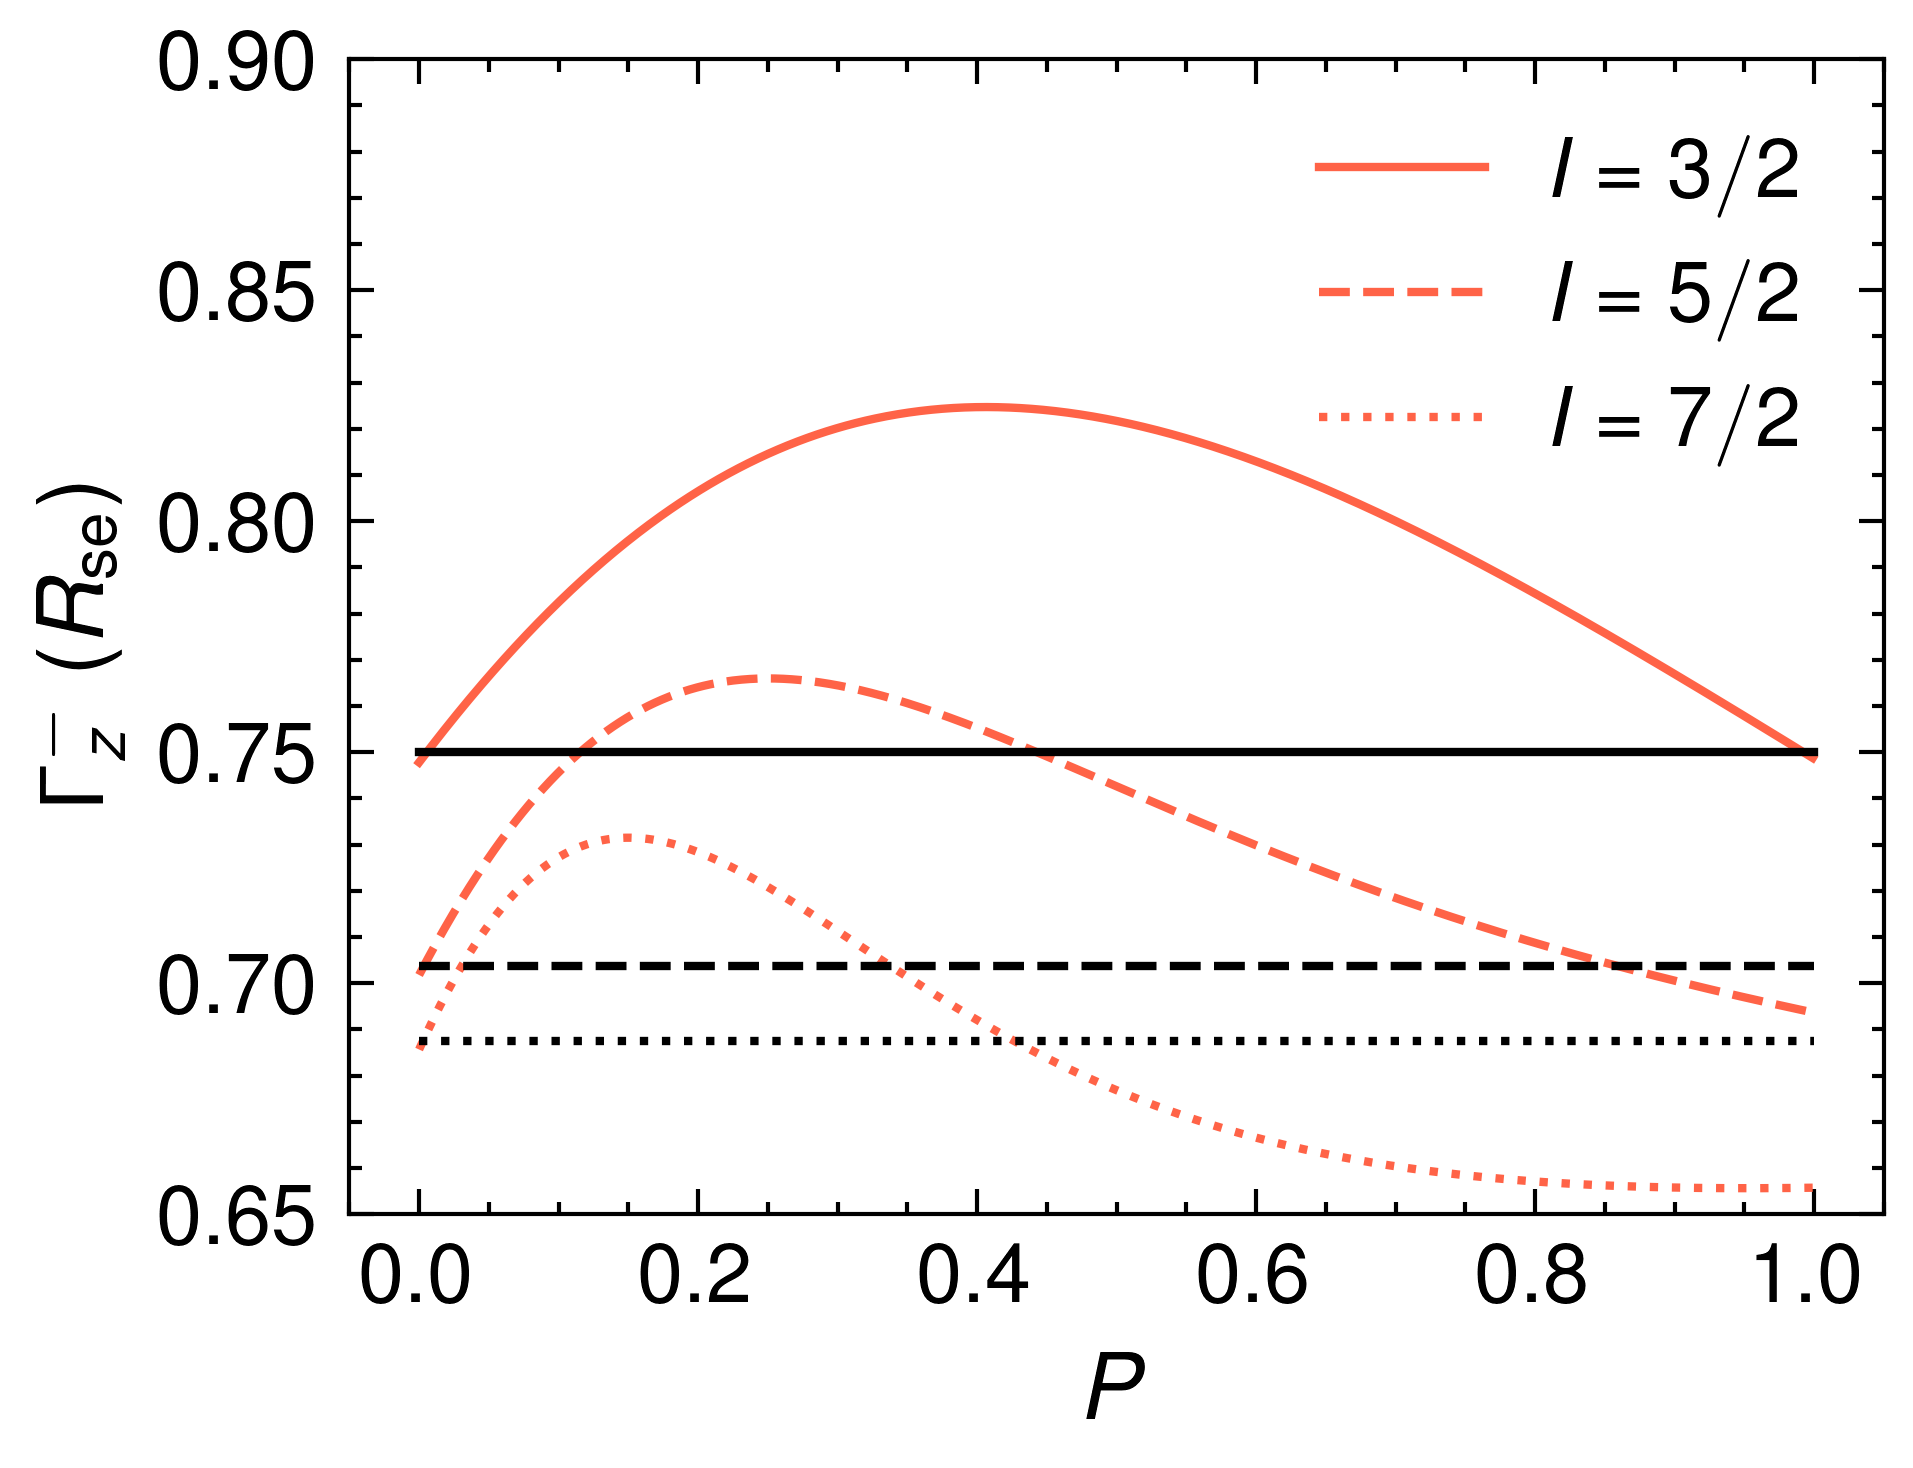
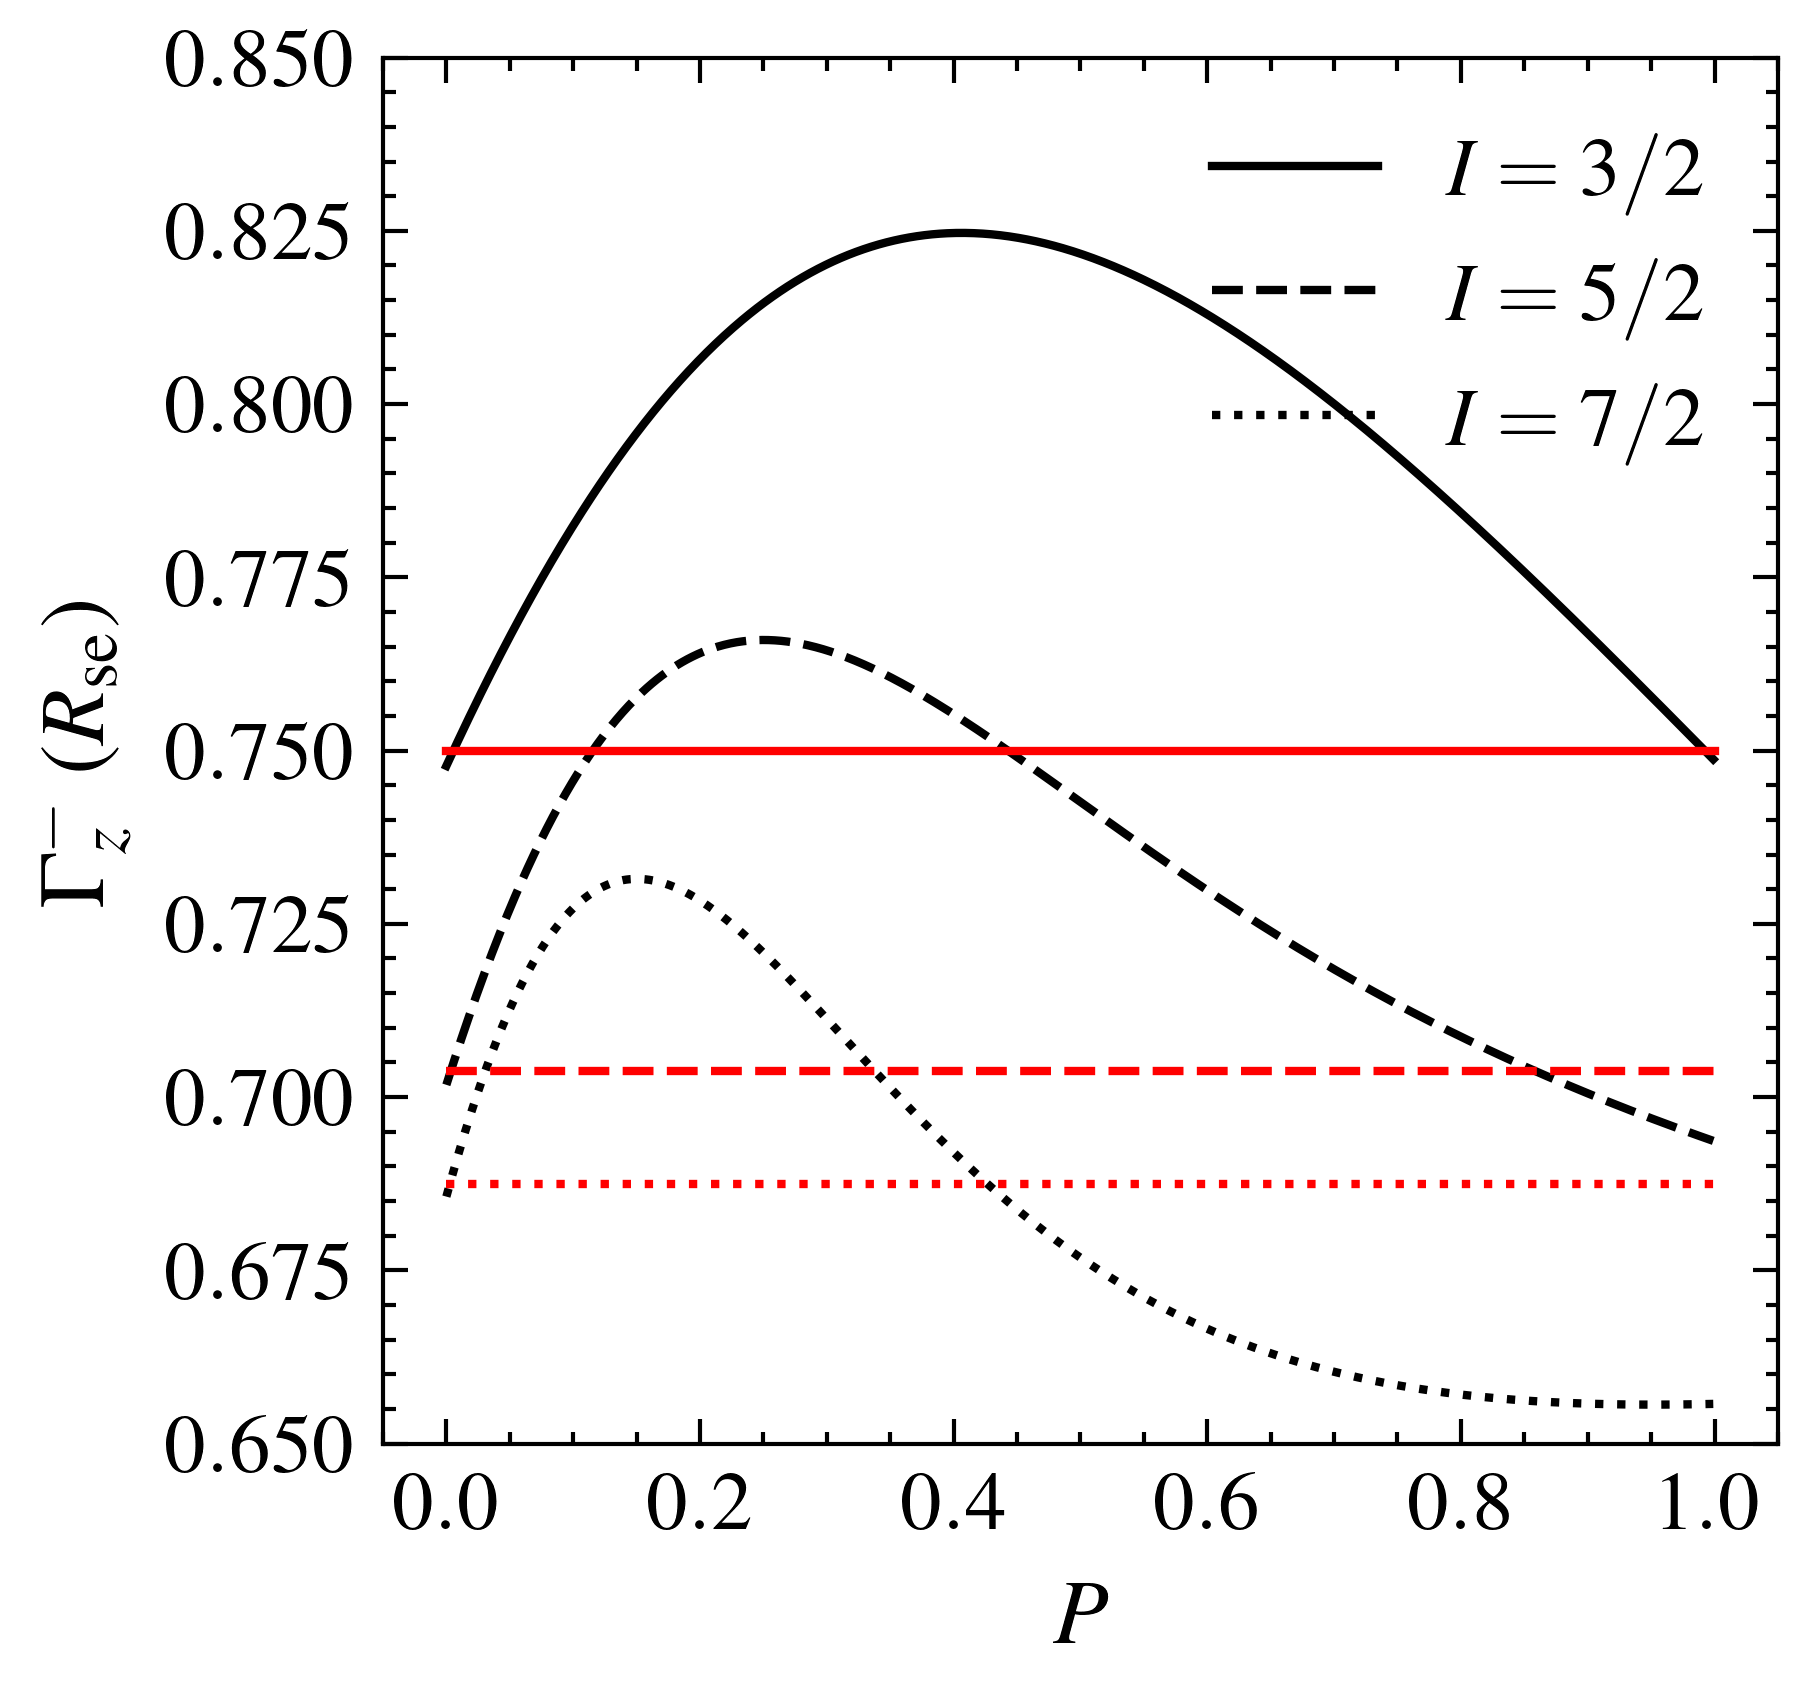
1

diff --git a/test7_copy.py b/test7_copy.py
@@ -12,7 +12,7 @@ from sympy.physics.quantum.spin import Rotation
 from sympy import pi
 from scipy.linalg import *
 import scienceplots
-def gammam(I, g1, g2): 
+def gammam(I,bound): 
 
     # --------------------------------Properties of the alkali metal atom-----------------------------------#
     # I = 5 / 2
@@ -31,13 +31,12 @@ def gammam(I, g1, g2):
 
     # --------------------------------Characterize interactions envolved-----------------------------------#
     Rse = 1
-    Rop = 0
-    Rsd = 0
-    sx=np.sqrt(1)/(2)
-    sz=np.sqrt(1)/(2)
+    H = (az+0.5*ax - bz-0.5*bx)  # 投影定理
+    q, v = np.linalg.eig(H)
+    evolving_B = v @ np.diag(np.exp(-1j * q *0.1)) @ np.linalg.inv(v)
     # --------------------------------Define the initial state-----------------------------------#
-    theta = 0
-    phi = 0
+    theta = np.pi/2
+    phi = np.pi/4
     a_theta = spin_Jx(a) * np.sin(theta) * np.cos(phi) + spin_Jy(a) * np.sin(theta) * np.sin(phi) + spin_Jz(a) * np.cos(
         theta)
     b_theta = spin_Jx(b) * np.sin(theta) * np.cos(phi) + spin_Jy(b) * np.sin(theta) * np.sin(phi) + spin_Jz(b) * np.cos(
@@ -46,8 +45,6 @@ def gammam(I, g1, g2):
     qb, vb = np.linalg.eig(b_theta)
     v = block_diag(va, vb)
     q = np.hstack((qa, qb))
-    Rho_ini = np.zeros(2 * (a + b + 1))
-
     # # -----------------spin temperature state-----------------#
 
 
@@ -59,9 +56,10 @@ def gammam(I, g1, g2):
 
     dt = 0.001
     hyperfine = block_diag(np.ones((2 * a + 1, 2 * a + 1)), np.ones((2 * b + 1, 2 * b + 1)))  # 一个原子
-    Fm = np.zeros(1001)
+    Fmmt = np.zeros(bound)
+    Fmmz = np.zeros(bound)
 
-    for n in np.arange(0, 1001, 1):
+    for n in np.arange(0,bound, 1):
         # -----------------Evolution-----------------#
         Rho_ini = np.zeros(2 * (a + b + 1))
         P = n/1000
@@ -77,11 +75,14 @@ def gammam(I, g1, g2):
         for i in np.arange(0, 2 * (a + b + 1), 1):
             Rho_ini = Rho_ini + np.exp(beta * q[i]) * v[:, [i]] @ v[:, [i]].T.conjugate()
         Rho_ini = Rho_ini / np.trace(Rho_ini)
-        Rho_ini[[g1,g1]]=Rho_ini[[g1,g1]]*0.9
-        Rho_ini[[g2,g2]]=Rho_ini[[g2,g2]]+Rho_ini[[g1,g1]]*0.1
+        Rho_ini = evolving_B @Rho_ini @ evolving_B.T.conjugate()  # Zeeman effect
         Rhot = Rho_ini
-        Fzm0 = np.sqrt(np.trace((az-eta*bz)@Rhot)**2)
-        for tt in np.arange(0,20,1):
+        Fxm0 = np.trace((ax-eta*bx)@Rhot)
+        Fym0 = np.trace((ay-eta*by)@Rhot)
+        Fm0=np.sqrt(Fxm0**2+Fym0**2)
+        Fmz0=np.sqrt(np.trace((az-eta*bz)@Rhot)**2)
+        for k in np.arange(0,2,1):
+            Rhot = hyperfine * Rhot
             x1 = Rhot @ Sx
             x2 = Rhot @ Sy
             x3 = Rhot @ Sz
@@ -92,8 +93,14 @@ def gammam(I, g1, g2):
             mSz = np.trace(x3)
             mSS = mSx * Sx + mSy * Sy + mSz * Sz
             Rhot = Rse * (alpha + 4 * alpha @ mSS - Rhot) * dt  + Rhot
-            Rhot = hyperfine * Rhot
-        Fzm =np.sqrt(np.trace((az-eta*bz)@Rhot)**2)
-        Fm[n]=(Fzm-Fzm0)/(dt*(20))/Fzm0
-    return Fm
+  
+        Fxm = np.trace((ax-eta*bx)@Rhot)
+        Fym = np.trace((ay-eta*by)@Rhot)
+        Fm=np.sqrt(Fxm**2+Fym**2)
+        Fmz=np.sqrt(np.trace((az-eta*bz)@Rhot)**2)
+
+        Fmmt[n]=(Fm-Fm0)/(2*dt)/Fm0
+        Fmmz[n]=(Fmz-Fmz0)/(2*dt)/Fmz0
+
+    return Fmmt, Fmmz
     

diff --git a/test9.py b/test9.py
@@ -12,7 +12,7 @@ from sympy.physics.quantum.spin import Rotation
 from sympy import pi
 from scipy.linalg import *
 import scienceplots
-def gammam(I, g1, g2): 
+def gammam(P,I, g1, g2,deviation): 
 
     # --------------------------------Properties of the alkali metal atom-----------------------------------#
     # I = 5 / 2
@@ -56,44 +56,33 @@ def gammam(I, g1, g2):
     # Rho_ini = np.outer(np.array([0, 1, 0, 0, 0, 0, 0, 0]), np.array([0, 1, 0, 0, 0, 0, 0, 0]))
 
     # --------------------------------------Evolution under hyperfine effect, etc.--------------------------------#
-
+    qq=2*(19+26*P**2+3*P**4)/(3+10*P**2+3*P**4)
+    eta=(qq+6)/(qq-6)
     dt = 0.001
     hyperfine = block_diag(np.ones((2 * a + 1, 2 * a + 1)), np.ones((2 * b + 1, 2 * b + 1)))  # 一个原子
-    Fm = np.zeros(1001)
-
-    for n in np.arange(0, 1001, 1):
+    Fm = np.zeros(10001)
+    Rho_ini = np.zeros(2 * (a + b + 1))
+    beta = np.log((1 + P) / (1 - P))
+    for i in np.arange(0, 2 * (a + b + 1), 1):
+        Rho_ini = Rho_ini + np.exp(beta * q[i]) * v[:, [i]] *v[:, [i]].T.conjugate()
+    Rho_ini = Rho_ini / np.trace(Rho_ini)
+    Rho_ini[[g1,g1]]=Rho_ini[[g1,g1]]*deviation
+    Rho_ini[[g2,g2]]=Rho_ini[[g2,g2]]+Rho_ini[[g1,g1]]*(1-deviation)
+    Rhot = Rho_ini
+    for n in np.arange(0, 10001, 1):
         # -----------------Evolution-----------------#
-        Rho_ini = np.zeros(2 * (a + b + 1))
-        P = n/1000
-        if a==2:
-            eta=(5+3*P**2)/(1-P**2)
-        if a==3:
-            qq=2*(19+26*P**2+3*P**4)/(3+10*P**2+3*P**4)
-            eta=(qq+6)/(qq-6)
-        if a==4:
-            qq=2*(11+35*P**2+17*P**4+P**6)/(1+7*P**2+7*P**4+P**6)
-            eta=(qq+8)/(qq-8)
-        beta = np.log((1 + P) / (1 - P))
-        for i in np.arange(0, 2 * (a + b + 1), 1):
-            Rho_ini = Rho_ini + np.exp(beta * q[i]) * v[:, [i]] @ v[:, [i]].T.conjugate()
-        Rho_ini = Rho_ini / np.trace(Rho_ini)
-        Rho_ini[[g1,g1]]=Rho_ini[[g1,g1]]*0.9
-        Rho_ini[[g2,g2]]=Rho_ini[[g2,g2]]+Rho_ini[[g1,g1]]*0.1
-        Rhot = Rho_ini
-        Fzm0 = np.sqrt(np.trace((az-eta*bz)@Rhot)**2)
-        for tt in np.arange(0,20,1):
-            x1 = Rhot @ Sx
-            x2 = Rhot @ Sy
-            x3 = Rhot @ Sz
-            AS = 3 / 4 * Rhot - (Sx @ x1 + Sy @ x2 + Sz @ x3)
-            alpha = Rhot - AS
-            mSx = np.trace(x1)
-            mSy = np.trace(x2)
-            mSz = np.trace(x3)
-            mSS = mSx * Sx + mSy * Sy + mSz * Sz
-            Rhot = Rse * (alpha + 4 * alpha @ mSS - Rhot) * dt  + Rhot
-            Rhot = hyperfine * Rhot
+        x1 = Rhot @ Sx
+        x2 = Rhot @ Sy
+        x3 = Rhot @ Sz
+        AS = 3 / 4 * Rhot - (Sx @ x1 + Sy @ x2 + Sz @ x3)
+        alpha = Rhot - AS
+        mSx = np.trace(x1)
+        mSy = np.trace(x2)
+        mSz = np.trace(x3)
+        mSS = mSx * Sx + mSy * Sy + mSz * Sz
+        Rhot = Rse * (alpha + 4 * alpha @ mSS - Rhot) * dt  + Rhot
+        Rhot = hyperfine * Rhot
         Fzm =np.sqrt(np.trace((az-eta*bz)@Rhot)**2)
-        Fm[n]=(Fzm-Fzm0)/(dt*(20))/Fzm0
+        Fm[n]=Fzm
     return Fm
     

diff --git a/test8.py b/test8.py
@@ -5,13 +5,14 @@ from my_functions.alkali_atom_uncoupled_to_coupled import alkali_atom_uncoupled_
 from qutip import *
 from sympy.physics.quantum.spin import Rotation
 from sympy import pi
-from test7 import gammam
+from test7_copy import gammam
 from scipy.linalg import *
 import numpy as np
 
-Fm1=gammam(3/2, 5, 1)
-Fm2=gammam(5/2, 7, 1)
-Fm3=gammam(7/2, 9, 1)
+bound=1000
+z,Fm1=gammam(3/2, bound)
+zz,Fm2=gammam(5/2,bound)
+zzz,Fm3=gammam(7/2, bound)
 h=3/4
 qq0=2*(19)/(3)
 hh=qq0*4*(5/2)*4/(3*36*(qq0-6))
@@ -19,27 +20,37 @@ hh=qq0*4*(5/2)*4/(3*36*(qq0-6))
 qqq0=2*(11)/(1)
 hhh=qqq0*4*(7/2)*6/(3*64*(qqq0-8))
 
-PP=np.arange(0, 1001, 1)/1000
-plt.style.use(['science','nature'])
-with plt.style.context(['science','nature']):
-    fig1 = plt.figure()
-    p1,=plt.plot(PP, -Fm1,linestyle='solid',color='tomato')
-    p2,=plt.plot(PP, -Fm2,linestyle='dashed',color='tomato' )
-    p3,=plt.plot(PP, -Fm3,linestyle='dotted',color='tomato')
+PP=np.arange(0, bound, 1)/1000
+plt.style.use(['science','ieee'])
+with plt.style.context(['science','ieee']):
+    fig1 = plt.figure(figsize=(2.8, 2.5))
+    p1,=plt.plot(PP, -z,linestyle='solid',color='black')
+    p2,=plt.plot(PP, -zz,linestyle='dashed',color='black' )
+    p3,=plt.plot(PP, -zzz,linestyle='dotted',color='black')
 
 
-    p4, = plt.plot(PP, h*np.ones(1001),linestyle='solid',color='black')
-    p5, = plt.plot(PP, hh*np.ones(1001),linestyle='dashed',color='black')
-    p6, = plt.plot(PP, hhh*np.ones(1001),linestyle='dotted',color='black')
+    # p4, = plt.plot(PP, h*np.ones(bound),linestyle='solid',color='red')
+    # p5, = plt.plot(PP, hh*np.ones(bound),linestyle='dashed',color='red')
+    # p6, = plt.plot(PP, hhh*np.ones(bound),linestyle='dotted',color='red')
+    plt.scatter(PP[0],-z[0])
+    # plt.text(PP[0], z[0], 'start')
+
+    plt.scatter(PP[0],-zz[0])
+    # plt.text(PP[0], zz[0], 'start')
+
+    plt.scatter(PP[0],-zzz[0])
+    # plt.text(PP[0], zzz[0], 'start')
+
     plt.xlabel('$P$', fontsize=11)
-    plt.ylabel('$\Gamma_z^-$ ($R_{\\rm{se}}$) ',fontsize='11')
+    plt.ylabel('$\Gamma_t^- \\approx \Gamma_z^-$ ($R_{\\rm{se}}$) ',fontsize='11')
     plt.legend( [p1,p2,p3],["$ I=3/2$", "$ I=5/2$", "$ I=7/2$"],
-               loc='upper right', prop={'size': 10})
-    plt.ylim([0.65, 0.9])
-    # plt.xlim([0, 1])
+               loc='upper left', prop={'size': 10})
+    # plt.ylim([0.65, 1])
+    # plt.xlim([0.1, 1])
     # plt.ticklabel_format(axis="y", style="sci", scilimits=(0,0))
     # plt.xlabel('Frequency (Hz)', fontsize=12)
     # plt.ylabel(' PSD ($N \chi_a^2/$Hz)', fontsize=12)
     plt.xticks(fontsize=10)
     plt.yticks(fontsize=10)
-    plt.savefig('imag/Power.png', dpi=600)
+    plt.savefig('imag/Gamma_.png', dpi=600)
+plt.show()

diff --git a/test6.py b/test6.py
@@ -75,7 +75,7 @@ V = np.zeros(round(T / dt))
 H = omega_0 * (az - bz)  # 投影定理
 q, v = np.linalg.eig(H)
 evolving_B = v @ np.diag(np.exp(-1j * q * dt)) @ np.linalg.inv(v)
-for P in np.arange(0, round(T / dt), 1):
+for n in np.arange(0, round(T / dt), 1):
     # -----------------Evolution-----------------#
     x1 = Rhot @ Sx
     x2 = Rhot @ Sy
@@ -88,8 +88,8 @@ for P in np.arange(0, round(T / dt), 1):
     P=2*np.sqrt(mSx**2+mSy**2)
     eta=(5+3*P**2)/(1-P**2)
     PP[n]=P
-    Fx = np.trace((ax+bx)@Rhot)
-    Fy = np.trace((ay+by)@Rhot)
+    Fx = np.trace((ax)@Rhot)
+    Fy = np.trace((ay)@Rhot)
     Fxm = np.trace((ax-eta*bx)@Rhot)
     Fym = np.trace((ay-eta*by)@Rhot)
     Fp[n]=np.sqrt(Fx**2+Fy**2)
@@ -101,12 +101,9 @@ for P in np.arange(0, round(T / dt), 1):
     Rhot = Rse * (alpha + 4 * alpha @ mSS - Rhot) * dt + (
             ER + OP) * dt + Rhot
     Rhot = hyperfine * Rhot
-    # -----------------Observables-----------------#
-    MSz[n] = mSz
-    MSx[n] = mSx
     # Vx = np.trace(Rhot @ ((ax + bx) @ (ax + bx) + (ay + by) @ (ay + by) + (az + bz) @ (az + bz)))
     # V[n] = Vx
-h=dt
+
 # slopep = np.gradient(Fp,h)
 # slopem = np.gradient(Fm,h)
 # Gammam=-slopem/Fm
@@ -114,7 +111,7 @@ plt.style.use(['science'])
 with plt.style.context(['science']):
     plt.figure()
     # p1, = plt.plot(PP, -slopep/Fp)
-    p1, = plt.plot(PP, Fm)
+    p1, = plt.plot(PP, Fm*Fp)
     # plt.xlim(0,0.93)
     # plt.ylim(0, 0.0001)
     plt.xticks(fontsize=10)

diff --git a/picture of q Q.py b/picture of q Q.py
@@ -16,15 +16,15 @@ qqq = 2 * (11 + 35 * P ** 2 + 17 * P ** 4 + P ** 6) / (1 + 7 * P ** 2 + 7 * P **
 QQQ = 2 * (11 + 28 * P ** 2 + 99 * P ** 4 + 64 * P ** 6 + 49 * P ** 8 + 4 * P ** 10 +
            P ** 12) / (1 + 7 * P ** 2 + 7 * P ** 4 + P ** 6) ** 2
 
-plt.style.use(['science' ,'nature'])
-with plt.style.context(['science','nature']):
-    plt.figure()
-    p1, = plt.plot(P, q,linestyle='solid',color='black')
-    p2, = plt.plot(P, qq,linestyle='dashed',color='black' )
-    p3, = plt.plot(P,qqq,linestyle='dotted',color='black')
-    p4, = plt.plot(P, Q,linestyle='solid',color='tomato')
-    p5, = plt.plot(P, QQ,linestyle='dashed',color='tomato')
-    p6, = plt.plot(P, QQQ,linestyle='dotted',color='tomato')
+plt.style.use(['science' ,'ieee'])
+with plt.style.context(['science','ieee']):
+    plt.figure(figsize=(2.8, 2.5))
+    p1, = plt.plot(P, q,linestyle='solid',color='black',linewidth='1')
+    p2, = plt.plot(P, qq,linestyle='dashed',color='black',linewidth='1' )
+    p3, = plt.plot(P,qqq,linestyle='dotted',color='black',linewidth='1')
+    p4, = plt.plot(P, Q,linestyle='solid',color='red',linewidth='1')
+    p5, = plt.plot(P, QQ,linestyle='dashed',color='red',linewidth='1')
+    p6, = plt.plot(P, QQQ,linestyle='dotted',color='red',linewidth='1')
     plt.legend([p1,p2,p3], ["$I={3/2}$",  "$I={5/2}$", "$I={7/2}$"],
                loc='upper right', prop={'size': 10})
 

diff --git a/test8 copy.py b/test8 copy.py
@@ -1,0 +1,35 @@
+
+import matplotlib.pyplot as plt
+from my_functions.spin_operators_of_2or1_alkali_metal_atoms import spin_operators_of_2or1_alkali_metal_atoms
+from my_functions.alkali_atom_uncoupled_to_coupled import alkali_atom_uncoupled_to_coupled
+from qutip import *
+from sympy.physics.quantum.spin import Rotation
+from sympy import pi
+from test7 import gammam
+from scipy.linalg import *
+import numpy as np
+
+bound=1001
+Fm1=gammam(3/2, 5,1)
+
+h=3/4
+qq0=2*(19)/(3)
+hh=qq0*4*(5/2)*4/(3*36*(qq0-6))
+
+qqq0=2*(11)/(1)
+hhh=qqq0*4*(7/2)*6/(3*64*(qqq0-8))
+
+PP=np.arange(0, bound, 1)/1000
+plt.style.use(['science','ieee'])
+with plt.style.context(['science','ieee']):
+    fig1 = plt.figure(figsize=(2.8, 2.5))
+    p1,=plt.plot(PP, -Fm1,linestyle='solid',color='black')
+
+
+
+    p4, = plt.plot(PP, h*np.ones(bound),linestyle='solid',color='red')
+
+    plt.xticks(fontsize=10)
+    plt.yticks(fontsize=10)
+    plt.savefig('imag/Gamma_.png', dpi=600)
+plt.show()

diff --git a/test9use.py b/test9use.py
@@ -1,0 +1,27 @@
+
+import matplotlib.pyplot as plt
+from my_functions.spin_operators_of_2or1_alkali_metal_atoms import spin_operators_of_2or1_alkali_metal_atoms
+from my_functions.alkali_atom_uncoupled_to_coupled import alkali_atom_uncoupled_to_coupled
+from qutip import *
+from sympy.physics.quantum.spin import Rotation
+from sympy import pi
+from test9 import gammam
+from scipy.linalg import *
+import numpy as np
+
+Fm1=gammam(0.5,5/2,7, 1,0.95)
+Fm2=gammam(0.5,5/2,7, 1,0.95)
+tt=np.arange(0, 10001, 1)
+plt.style.use(['science','ieee'])
+with plt.style.context(['science','ieee']):
+    fig1 = plt.figure(figsize=(2.8, 2.5))
+    p1,=plt.plot(tt*0.001, Fm1,linestyle='solid',color='black')
+
+
+
+    p4, = plt.plot(tt*0.001,Fm2,linestyle='solid',color='red')
+
+    plt.xticks(fontsize=10)
+    plt.yticks(fontsize=10)
+    plt.savefig('imag/Gamma_.png', dpi=600)
+plt.show()
